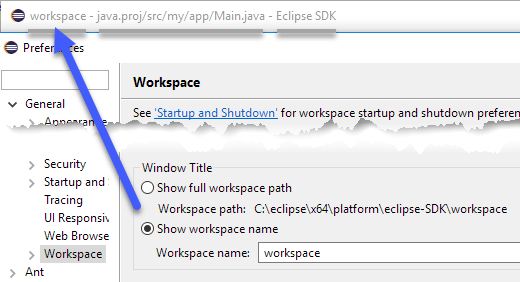
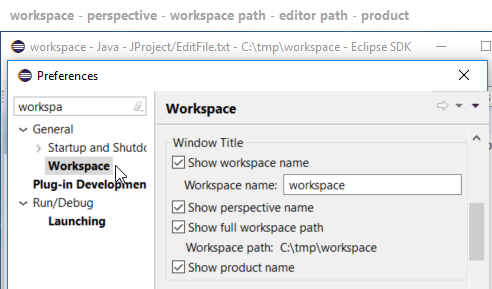
Bug 502050 - Improve window title content
Update the N&N with the new screenshot

Changed region(s): [[0.0, 0.0, 1.0, 1.0], [0.9146, 0.2553, 0.9451, 0.2837]]

diff --git a/4.7/M4/index.html b/4.7/M4/index.html
@@ -70,14 +70,20 @@
     <td class="title">Window title configuration</td>
     <td class="content">
       The title window is now simpler and you can configure it from Preferences.
-	  By default the title displays <em>workspace name</em>, <em>editor path</em> and <em>product name</em>.
-	  You can use <b>Preferences &gt; Workspace</b> to display the <em>workspace path</em> instead of its <em>name</em> only.
+	  By default the title displays <b>workspace name</b>, <b>editor path</b> and <b>product name</b>.
+	  <p>
+        <img src="images/simplified-window-title.png" alt=""/>
+      </p>
+      <p>
+	  You can now use <b>Preferences &gt; Workspace</b> to choose what to display in the window title:
+	  <b>workspace name</b>, <b>perspective name</b>, <b>workspace path</b>, and <b>product name</b>.
+      </p>
       <p>
         <img src="images/improved-window-title.png" alt=""/>
       </p>
     </td>
   </tr>
-  
+
   <tr id="launch-groups">
     <td class="title">"Launch Group" launch configuration type</td>
     <td class="content">
